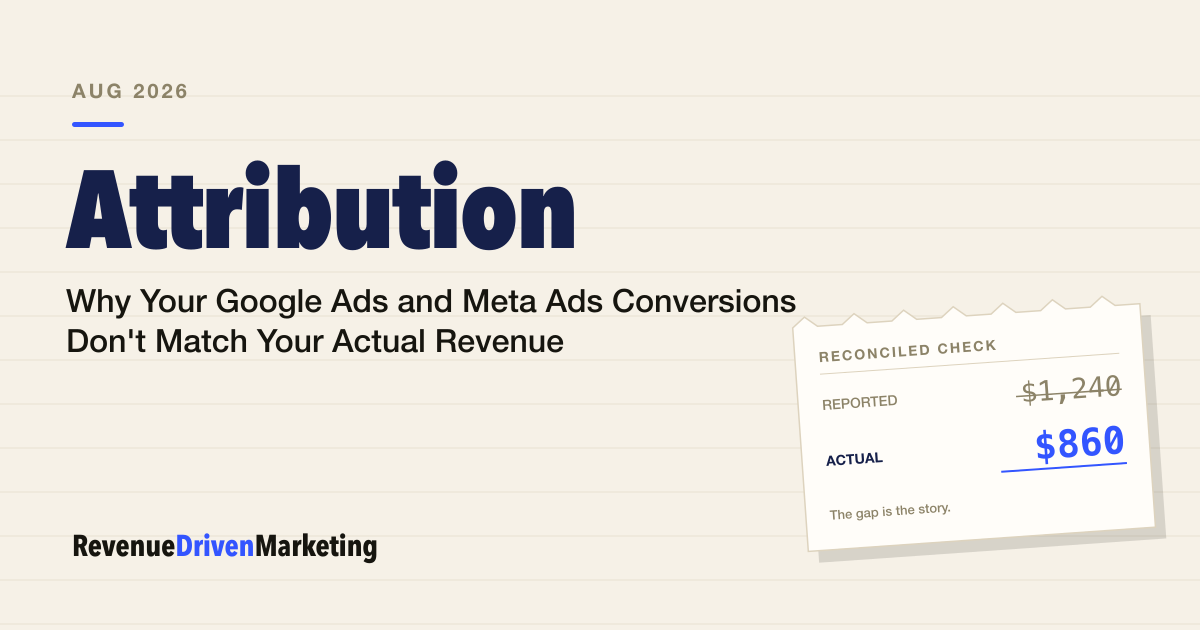
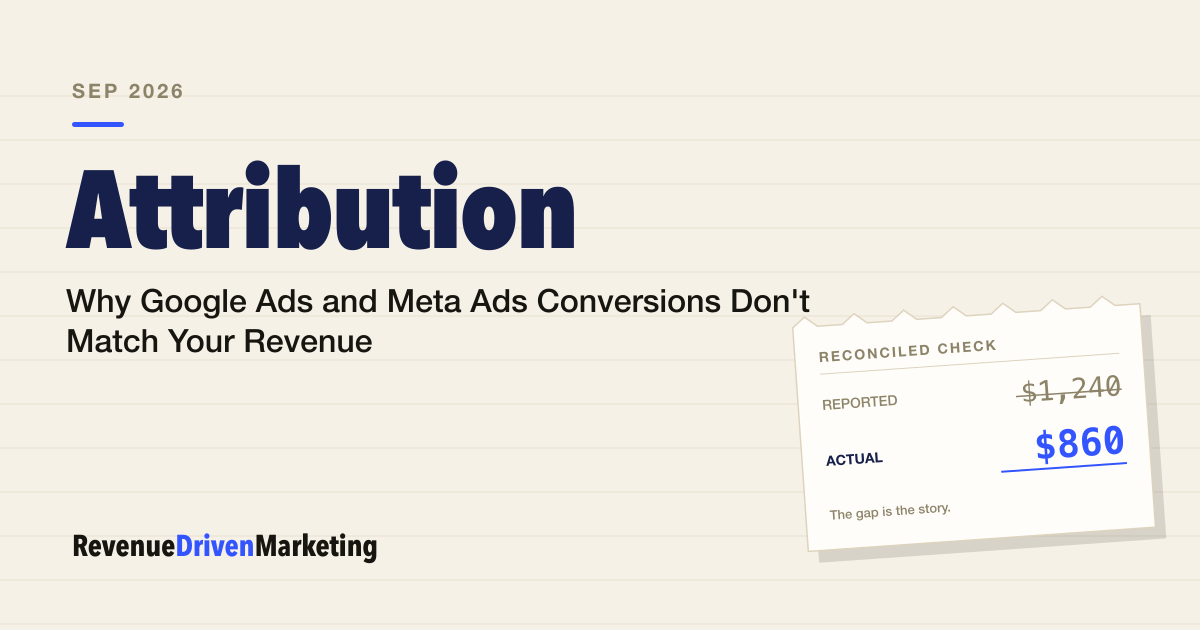
Real depth check on the already-live attribution post
Same standard just applied to PR #3, applied here too, since the
original research claim needed re-verification rather than trust:

Verified the original benchmark claim was real, not fabricated --
fetched searchengineland.com's "Why Google Ads, GA4 and CRM numbers
never match" in full (it's real, ~2,200-2,750 words per its own
stated 11-minute read time). This post was at 1,568 words against
that, a real but smaller gap than PR #3 had.

Found two genuine content gaps against that verified benchmark and
closed them:
- Only one incrementality method was covered (geo holdout). The
  benchmark covers three. Added audience holdout and time-based
  holdout as real alternatives, since geo holdout alone isn't
  practical for single-location or smaller accounts.
- No coverage of attribution-model blind spots (last-click,
  first-click, linear/time-decay, data-driven) -- the mechanism that
  explains why "just pick GA4 as the source of truth" doesn't actually
  fix anything, since GA4's own model has the same kind of blind spot
  as the platforms it's meant to correct for. Added as a bridge
  section right before the reconciliation advice.

Also added: a tracking-ratio monitoring habit (watch the gap's
stability over time, not just its size once), and an AEO-style direct-
answer paragraph near the top, matching the pattern applied to PR #3.

Fixed the headline: was 76 characters, cut to 64 by dropping the
redundant "Actual" ("Your Revenue" already implies actual, not
[…]

Changed region(s): [[0.0617, 0.4524, 0.6783, 0.573], [0.0617, 0.1206, 0.1542, 0.181]]

diff --git a/src/content/blog/why-meta-and-google-ads-numbers-dont-match.md b/src/content/blog/why-meta-and-google-ads-numbers-dont-match.md
@@ -1,5 +1,5 @@
 ---
-title: 'Why Your Google Ads and Meta Ads Conversions Don''t Match Your Actual Revenue'
+title: 'Why Google Ads and Meta Ads Conversions Don''t Match Your Revenue'
 description: 'Google Ads and Meta Ads conversions don''t match your revenue. Here is why, with a worked example, and how to reconcile the gap.'
 pubDate: 2026-09-05
 pillar: attribution
@@ -9,6 +9,8 @@ draft: false
 You check your Google Ads or Meta Ads dashboard and the conversion count looks solid. Then you check your CRM, your order platform, or your bank account, and the numbers don't line up. Not a rounding difference. Sometimes 20 to 30 percent apart, sometimes more.
 
 If you've searched for why your Google Ads and Meta Ads conversions don't match your actual revenue, the honest answer is that it's not a tracking bug in the sense of "something broke." It's how attribution on ad platforms is built to work by default, for reasons that have nothing to do with your setup. Once you know the mechanisms, you can decide what to actually trust when you're making budget decisions, instead of guessing.
+
+**In short:** Google Ads and Meta Ads each apply their own attribution window, can both claim credit for the same sale, count view-through conversions alongside clicks, and increasingly fill gaps with modeled estimates, none of which your CRM does. The fix isn't picking one platform's number to trust or trying to make them agree with each other; it's treating your CRM or backend revenue as ground truth, reconciling the gap against it on a schedule, and using incrementality testing on your largest campaigns to find out how much of the reported number is real.
 
 ## Attribution Windows Count Conversions You Might Not Consider Yours
 
@@ -719,6 +721,17 @@ Meta reports based on your ad account's time zone. GA4 uses whatever time zone y
 	<p class="rdm-caption">The exact same purchase, logged on two different calendar days — depending only on which system's clock is doing the counting.</p>
 </div>
 
+## Picking a Single Source of Truth Doesn't Fix This Either
+
+The instinct once you've seen the gaps above is to just pick one system, GA4 usually, and trust it exclusively. That doesn't work, because every attribution model has its own blind spot, and GA4's default model isn't neutral, it's just a different set of assumptions than Google Ads' or Meta's.
+
+- **Last-click** rewards whatever touchpoint happened right before the conversion, usually branded search. It systematically undervalues the campaigns that built awareness earlier in the journey.
+- **First-click** does the opposite: full credit to discovery, none to whatever actually closed the sale.
+- **Linear and time-decay** split credit across touchpoints, which feels fairer but is still an arbitrary rule, not a measurement of what actually caused the purchase.
+- **Data-driven attribution** (the current default for most Google Ads accounts) is the most sophisticated on paper, but it's a black box you can't audit. If a platform's own model decides Meta contributed 12% to a conversion, there's no way to check that number against anything.
+
+None of this means attribution is useless. It means no single tool's number, including GA4's, is "the truth" you reconcile everything else against. It's one more model with its own blind spot, which is exactly why the next section treats your CRM or backend revenue, actual recorded transactions, not a model of them, as the only real anchor.
+
 ## How to Actually Reconcile the Numbers
 
 Not by trusting the raw platform number on its own, and not by trying to get Google and Meta to agree with each other, since structurally they can't. Here's what actually holds up:
@@ -760,7 +773,15 @@ Not by trusting the raw platform number on its own, and not by trying to get Goo
 
 The reconciliation above tells you the size of the gap. It doesn't tell you how much of your reported spend is actually driving sales that wouldn't have happened anyway, since someone who searched your brand name on Google might have bought regardless of whether the ad was there. That's a different question, and it takes a different method to answer: incrementality testing.
 
-The basic version is a geo holdout test: pause ads in a handful of comparable markets while running normally everywhere else, then compare the revenue difference against what the platform claimed those markets would have driven. Google and Meta both offer native lift-test tools that do a version of this at the account level. Neither replaces the reconciliation habit above, since incrementality tests take weeks and enough volume to reach significance, but for your largest campaigns, it's the only way to know whether the platform's reported number reflects sales it actually caused or sales it just happened to be standing next to.
+There are three practical ways to run one, and which fits depends on how much budget and traffic you're working with:
+
+- **Geo holdout.** Pause ads in a handful of comparable markets while running normally everywhere else, then compare the revenue difference. Practical for multi-location or national accounts with enough geographic spread to build a real control group.
+- **Audience holdout.** Google and Meta both offer native lift-test tools that carve out a percentage of your target audience and intentionally exclude them from seeing ads, then compare outcomes against the group that did. This is the more accessible option for single-location or smaller accounts that can't split by geography.
+- **Time-based holdout.** Pause a campaign entirely for a defined period and watch whether total conversion volume actually drops. The simplest to run, and the least reliable, since seasonality or a competitor's move during the test window can make an incremental campaign look flat, or a dead one look fine.
+
+None of these replace the reconciliation habit above, since incrementality tests take weeks and enough volume to reach significance. But for your largest campaigns, especially branded search and retargeting, where a large share of "conversions" are often people who would have bought anyway, it's the only way to know whether the platform's reported number reflects sales it actually caused or sales it just happened to be standing next to.
+
+One habit worth building regardless of whether you run a formal test: track the ratio between platform-reported revenue and actual CRM revenue over time, not just once. If that ratio holds steady month to month, your measurement gap is at least stable and predictable, useful for planning even though the raw numbers are inflated. If the ratio suddenly shifts, that's a signal something changed, a tracking break, a new campaign type, an attribution setting, worth investigating before it quietly distorts a budget decision.
 
 Neither Google Ads nor Meta Ads was built to report a number that matches your bank account exactly, and getting them to match each other isn't the right goal either. The question isn't whether the platform number is "right." It's whether you know the size and direction of the gap between it and your actual revenue, and whether you're making budget decisions off the number that's supposed to be right or the one that actually is.
 
